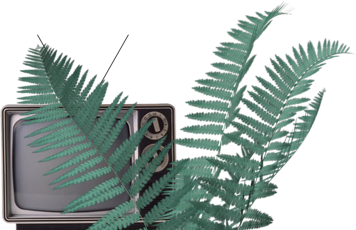
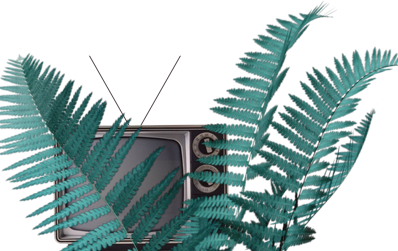
Fix footer image

diff --git a/css/main.css b/css/main.css
@@ -97,7 +97,6 @@ header p {
 }
 
 .left-hero-image {
-    max-width: 275px;
     position: absolute;
     margin: auto;
     top: -80px;
@@ -120,7 +119,7 @@ header p {
 .right-hero-image {
     position: absolute;
     margin: auto;
-    top: 20px;
+    top: 30px;
     bottom: 300px;
     right: -640px;
     left: 0;
@@ -212,14 +211,14 @@ footer {
     left: 42%;
     display: inline-block;
     z-index: 99;
-    bottom: -3px;
+    bottom: -5px;
 }
 
 
 .footer-right-rectangle {
     background-color: #CAE6E0;
     position: absolute;
-    bottom: -33px;
+    bottom: -55px;
     right: 0;
     height: 300px;
     width: 50%;
@@ -228,7 +227,7 @@ footer {
 .footer-left-rectangle {
     background-color: #FFE9CD;
     position: absolute;
-    bottom: -33px;
+    bottom: -55px;
     left: 0;
     height: 180px;
     width: 54%;
